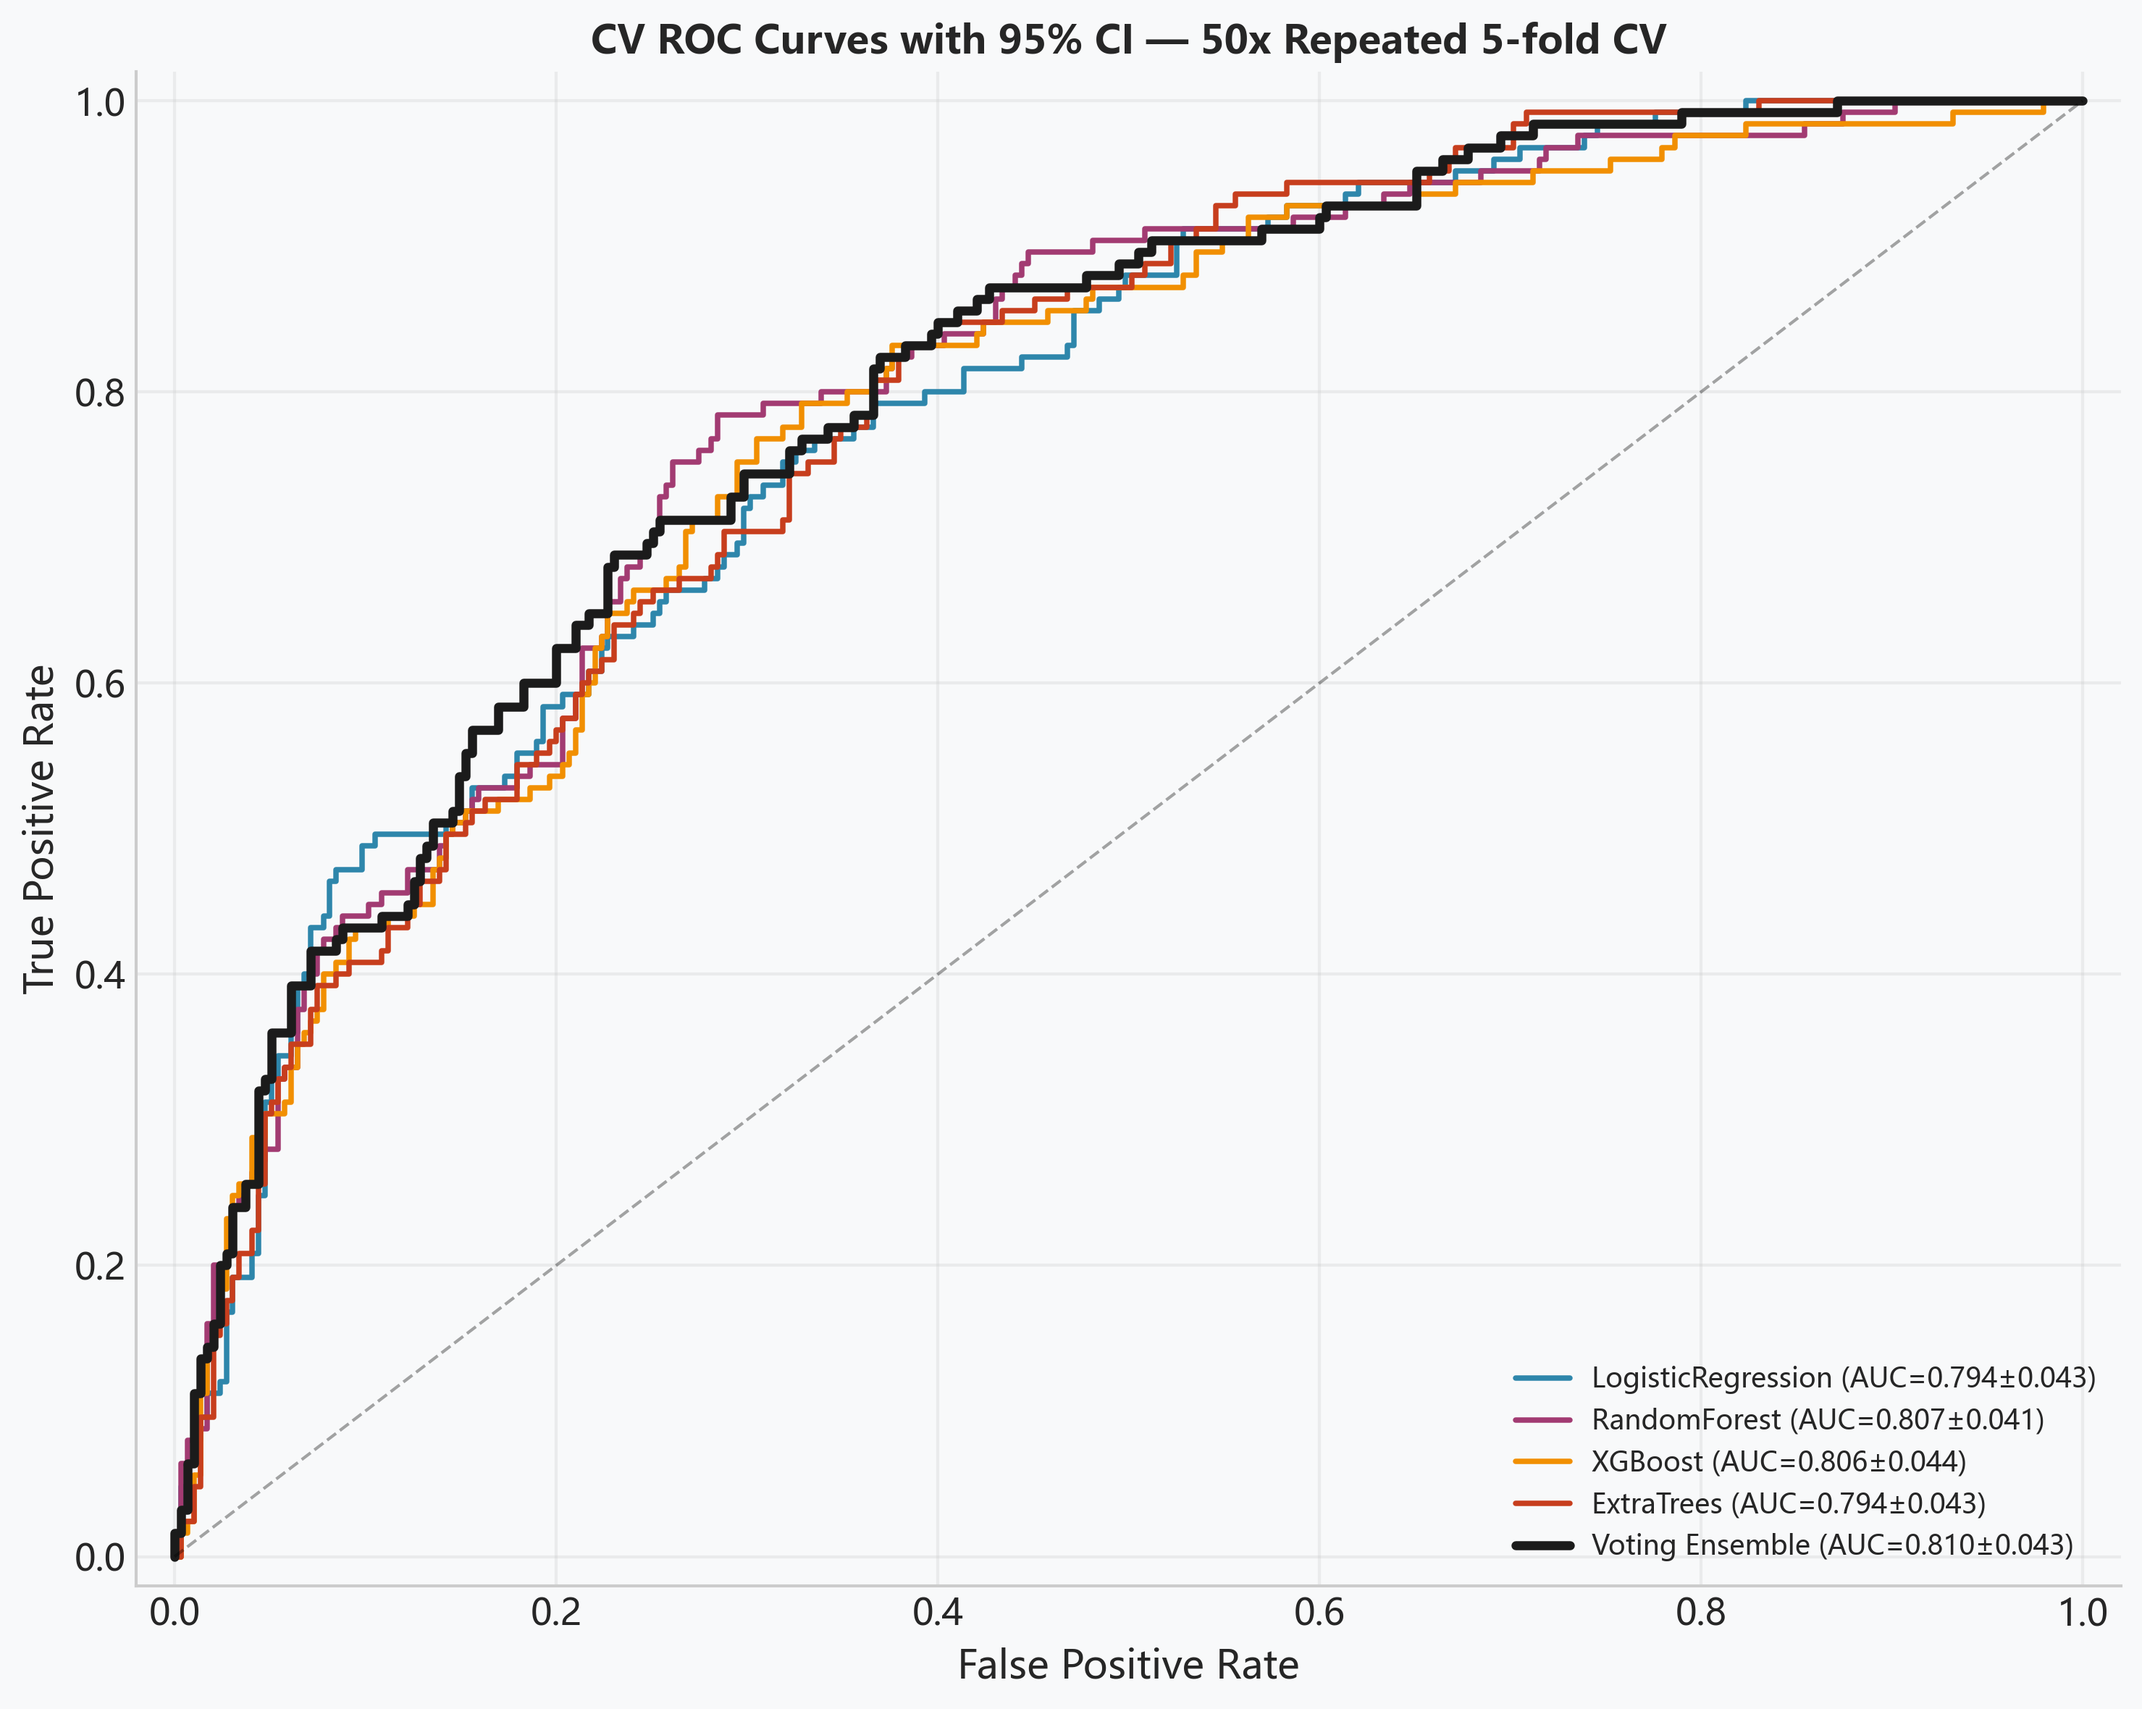
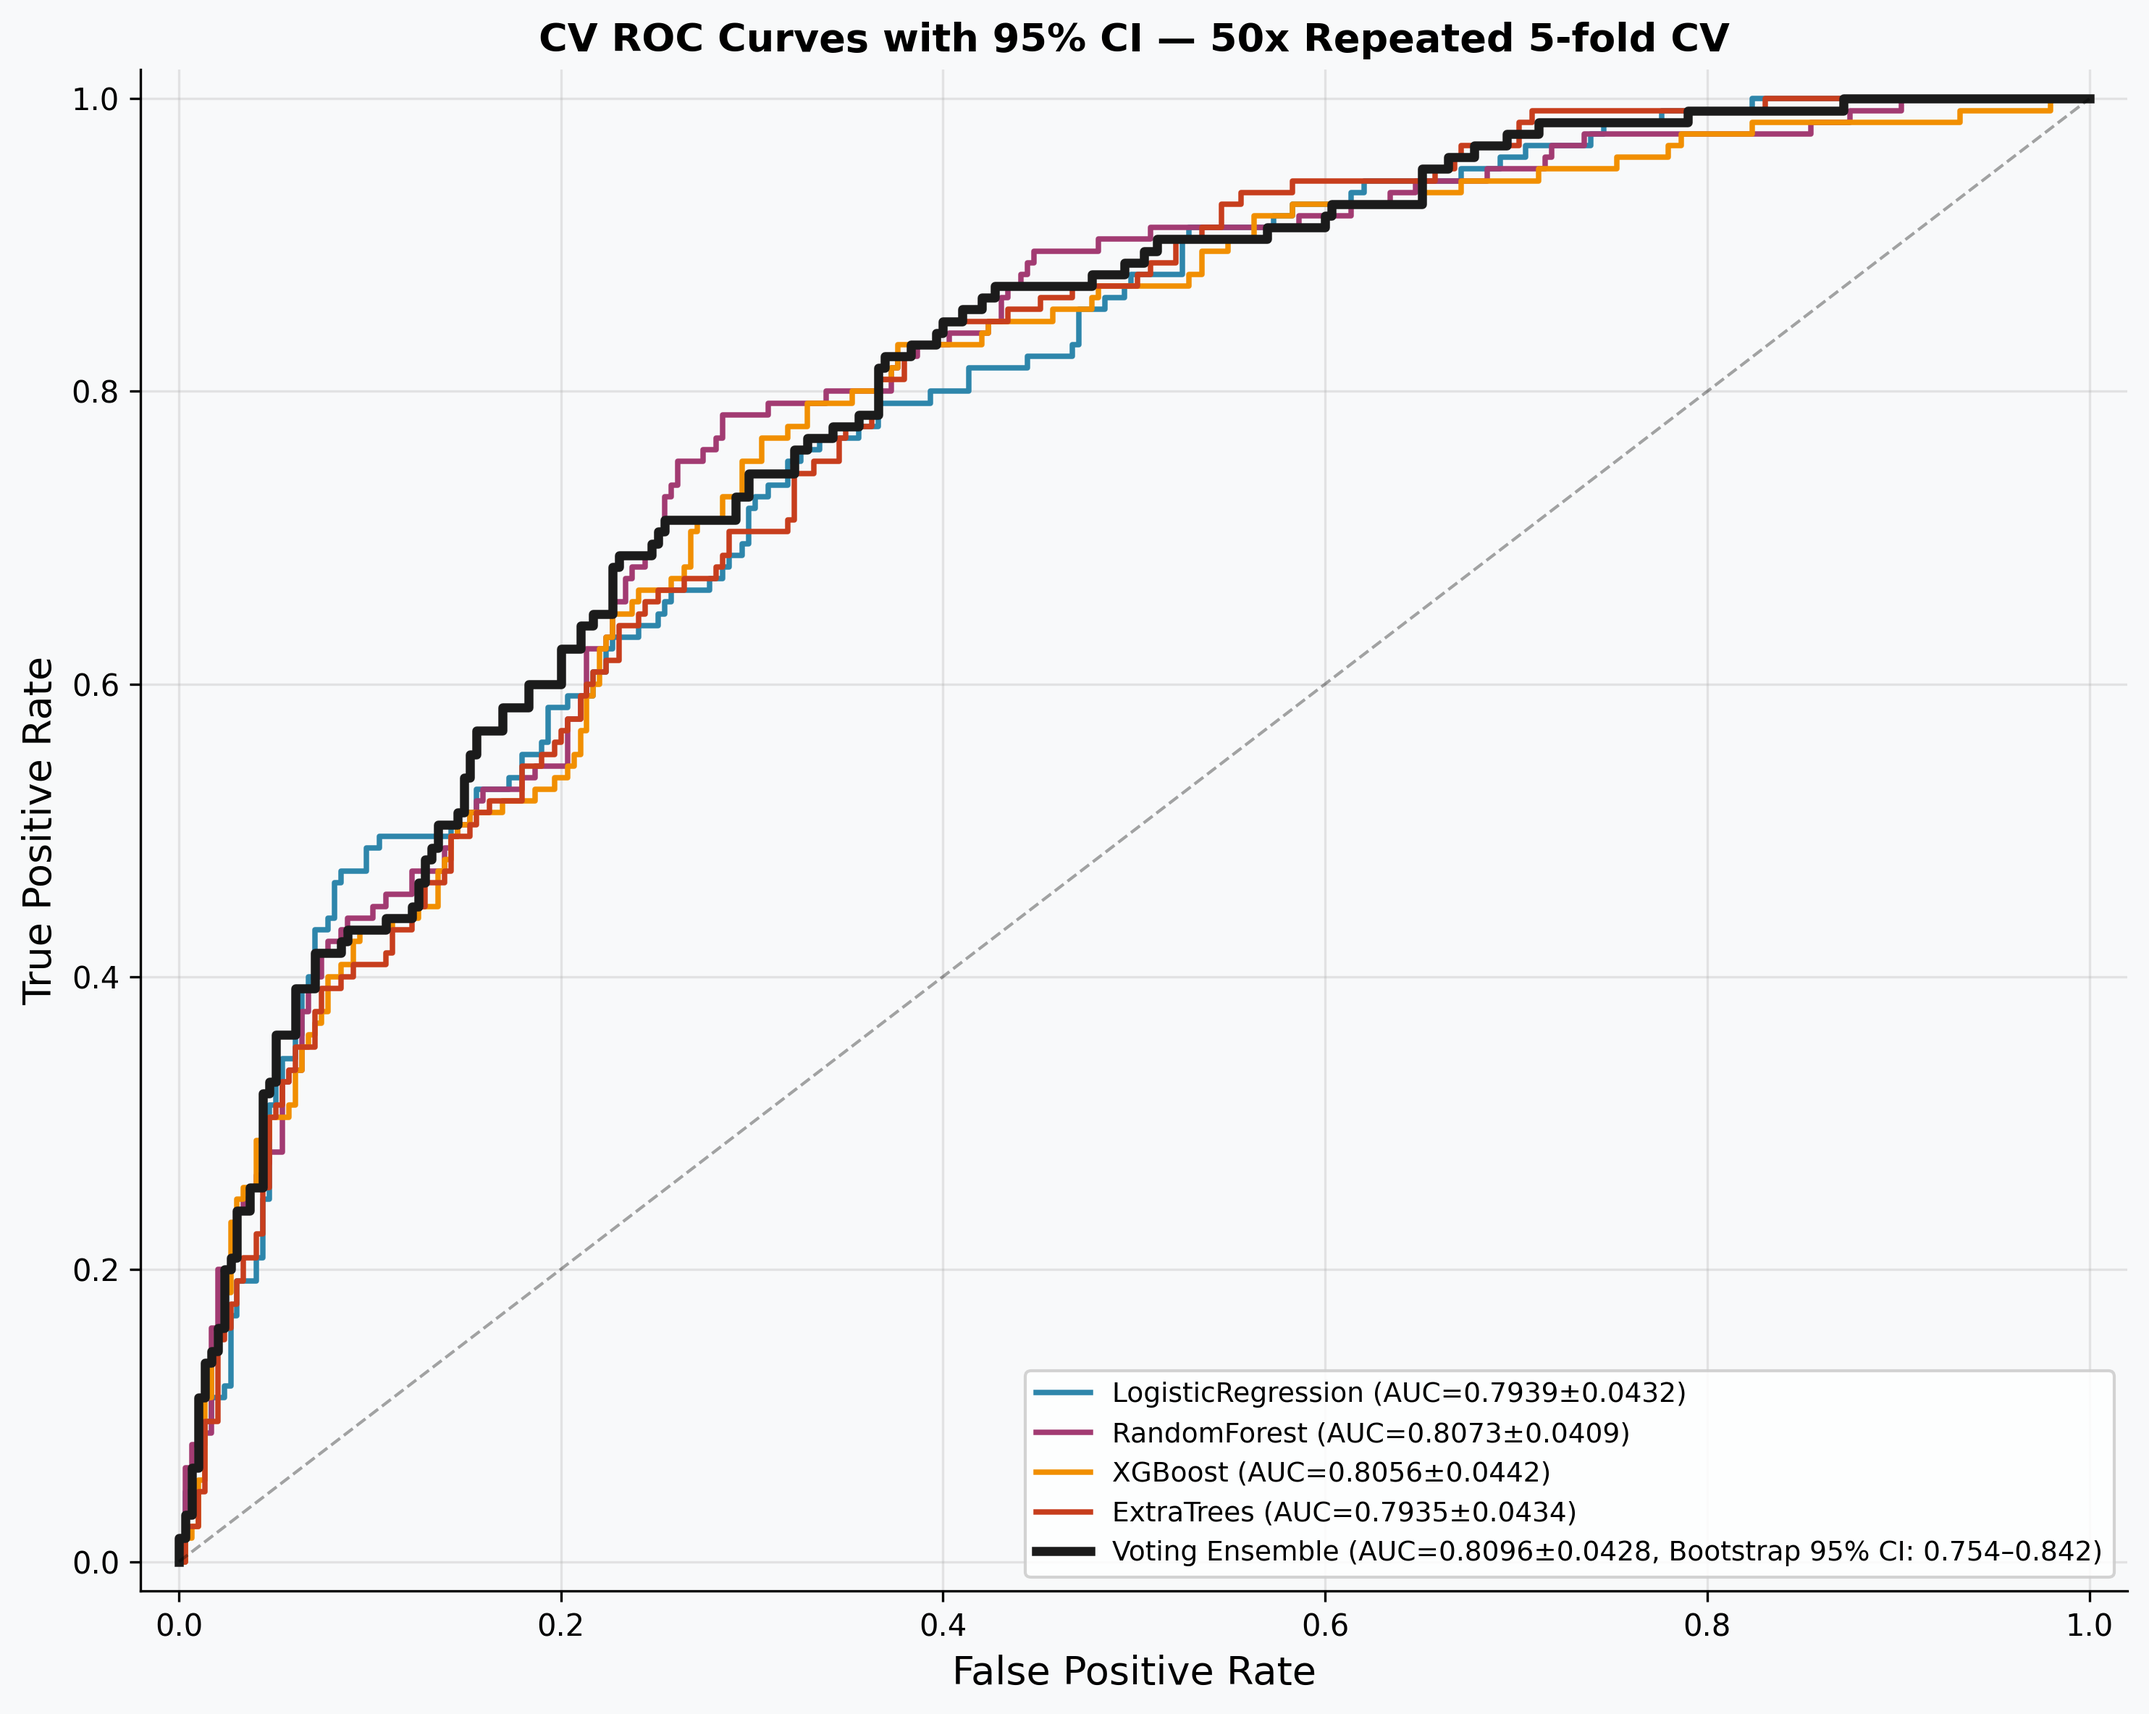
fix: CV ROC图例统一0.8096±0.0428并标注Bootstrap 95% CI

diff --git a/run_clean.py b/run_clean.py
@@ -1081,6 +1081,18 @@ try:
 except Exception as e:
     print(f"  [WARN] Data quality dashboard skipped: {e}")
 
+# Bootstrap 95% CI for Voting Ensemble (OOF, n=1000)
+rng_bt = np.random.default_rng(42)
+y_arr = np.asarray(y)
+oof_arr = np.asarray(y_prob_voting_oof)
+bt_aucs = np.array([
+    roc_auc_score(y_arr[idx], oof_arr[idx])
+    for idx in (rng_bt.integers(0, len(y_arr), size=len(y_arr)) for _ in range(1000))
+])
+bt_aucs = np.clip(bt_aucs, 0, 1)
+bootstrap_auc_mean = float(bt_aucs.mean())
+ci_lo, ci_hi = np.percentile(bt_aucs, [2.5, 97.5])
+
 # ── CV ROC 置信带（5模型 OOF ROC + 95% CI）──
 fig_cv, ax_cv = plt.subplots(figsize=(10, 8))
 fig_cv.patch.set_facecolor('#F8F9FA')
@@ -1091,8 +1103,12 @@ for name in model_order:
     cv_mean = all_results[name]['mean']
     cv_std = all_results[name]['std']
     lw = 3.0 if name == 'Voting Ensemble' else 1.8
-    ax_cv.plot(r['fpr'], r['tpr'], color=model_colors[name], lw=lw,
-               label=f'{name} (AUC={cv_mean:.3f}±{cv_std:.3f})')
+    if name == 'Voting Ensemble':
+        label = (f'{name} (AUC={cv_mean:.4f}±{cv_std:.4f}, '
+                 f'Bootstrap 95% CI: {ci_lo:.3f}–{ci_hi:.3f})')
+    else:
+        label = f'{name} (AUC={cv_mean:.4f}±{cv_std:.4f})'
+    ax_cv.plot(r['fpr'], r['tpr'], color=model_colors[name], lw=lw, label=label)
 
 ax_cv.plot([0, 1], [0, 1], 'k--', lw=1, alpha=0.35)
 ax_cv.set_xlabel('False Positive Rate', fontsize=13)
@@ -1108,22 +1124,10 @@ plt.close(fig_cv)
 print(f"  [OK] CV ROC with CI saved -> outputs/figures/cv_roc_with_ci.png")
 
 # ── Bootstrap AUC 分布（对 OOF 预测按患者重采样 1000 次）──
-rng_bt = np.random.default_rng(42)
-y_arr = np.asarray(y)
-oof_arr = np.asarray(y_prob_voting_oof)
-bt_aucs = np.array([
-    roc_auc_score(y_arr[idx], oof_arr[idx])
-    for idx in (rng_bt.integers(0, len(y_arr), size=len(y_arr)) for _ in range(1000))
-])
-bt_aucs = np.clip(bt_aucs, 0, 1)
-bootstrap_auc_mean = float(bt_aucs.mean())
-ci_lo, ci_hi = np.percentile(bt_aucs, [2.5, 97.5])
-
 fig_bt, ax_bt = plt.subplots(figsize=(9, 6))
 fig_bt.patch.set_facecolor('#F8F9FA')
 ax_bt.set_facecolor('#F8F9FA')
 ax_bt.hist(bt_aucs, bins=40, color='#1B1B1B', alpha=0.7, edgecolor='white')
-ci_lo, ci_hi = np.percentile(bt_aucs, [2.5, 97.5])
 ax_bt.axvline(ci_lo, color='#C73E1D', lw=2, ls='--', label=f'95% CI lower = {ci_lo:.3f}')
 ax_bt.axvline(ci_hi, color='#C73E1D', lw=2, ls='--', label=f'95% CI upper = {ci_hi:.3f}')
 ax_bt.axvline(bt_aucs.mean(), color='#2E86AB', lw=3, label=f'Mean = {bt_aucs.mean():.3f}')
